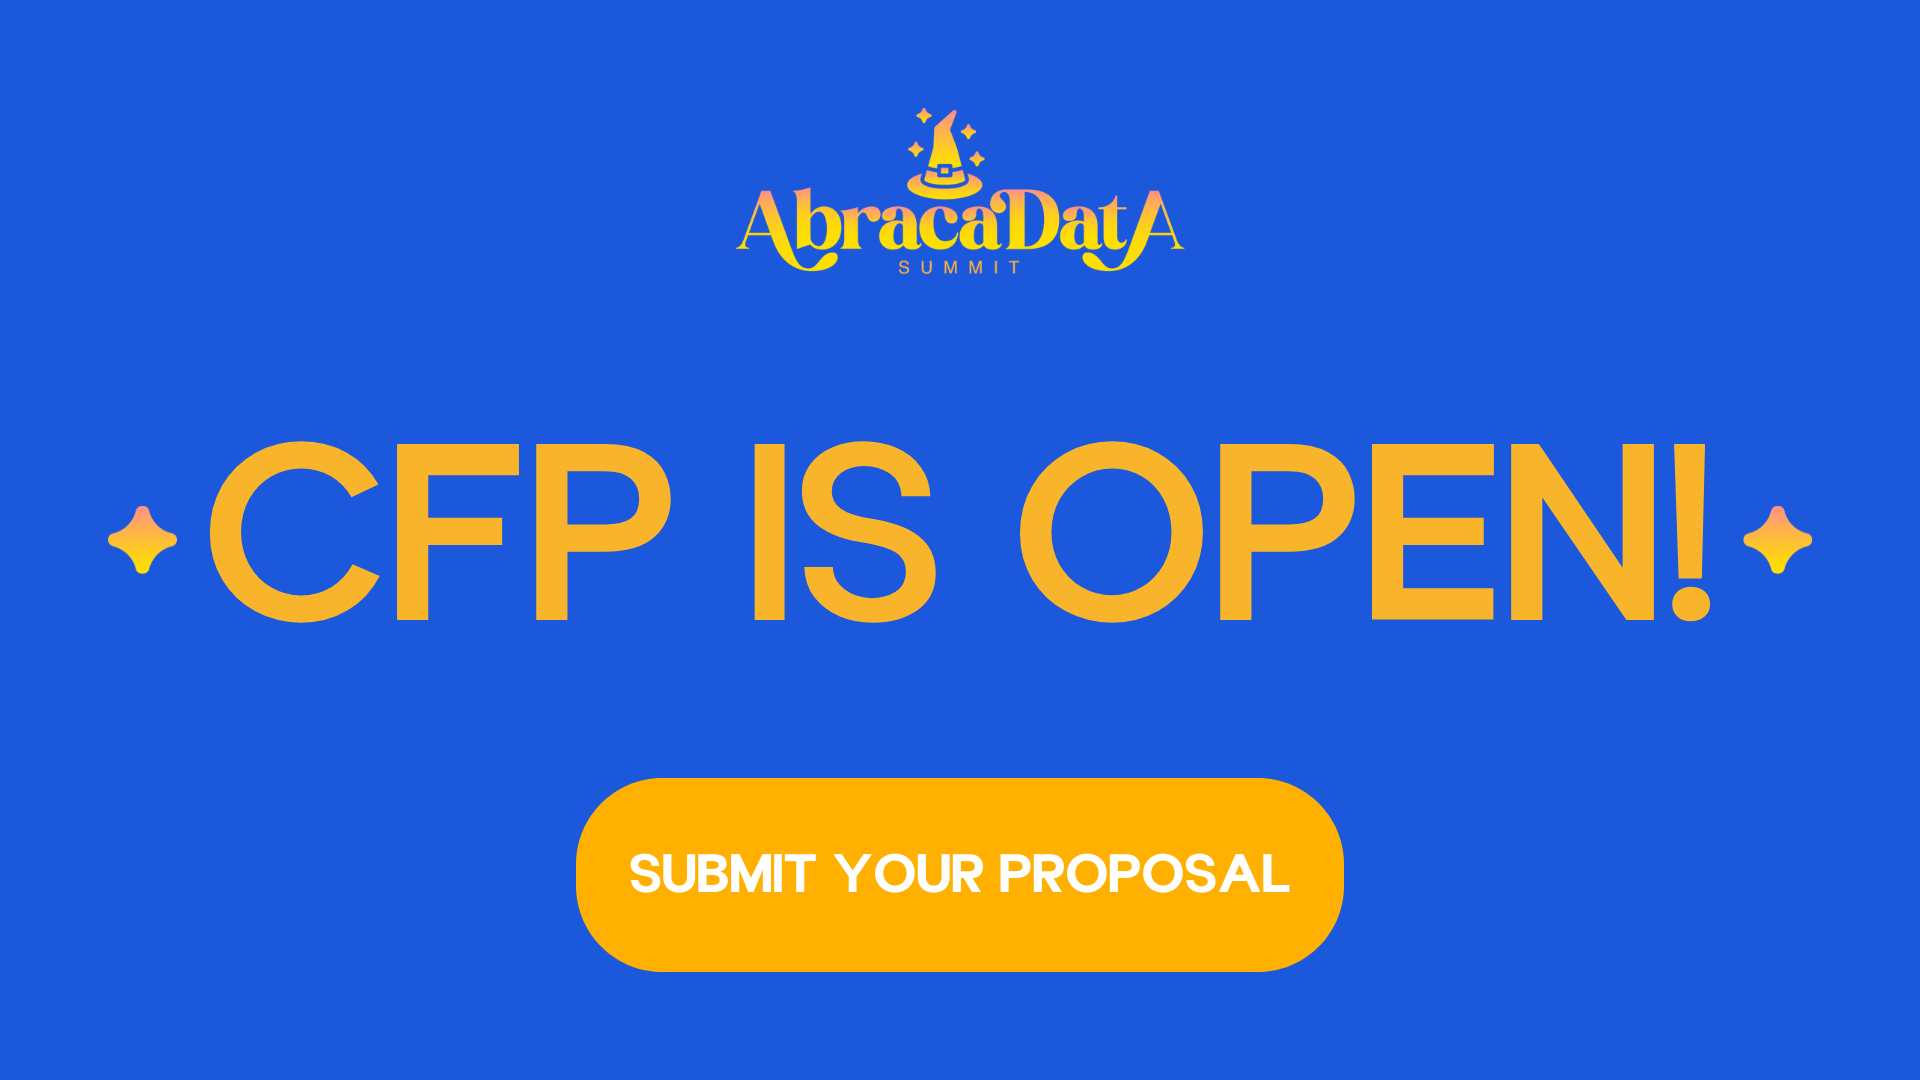
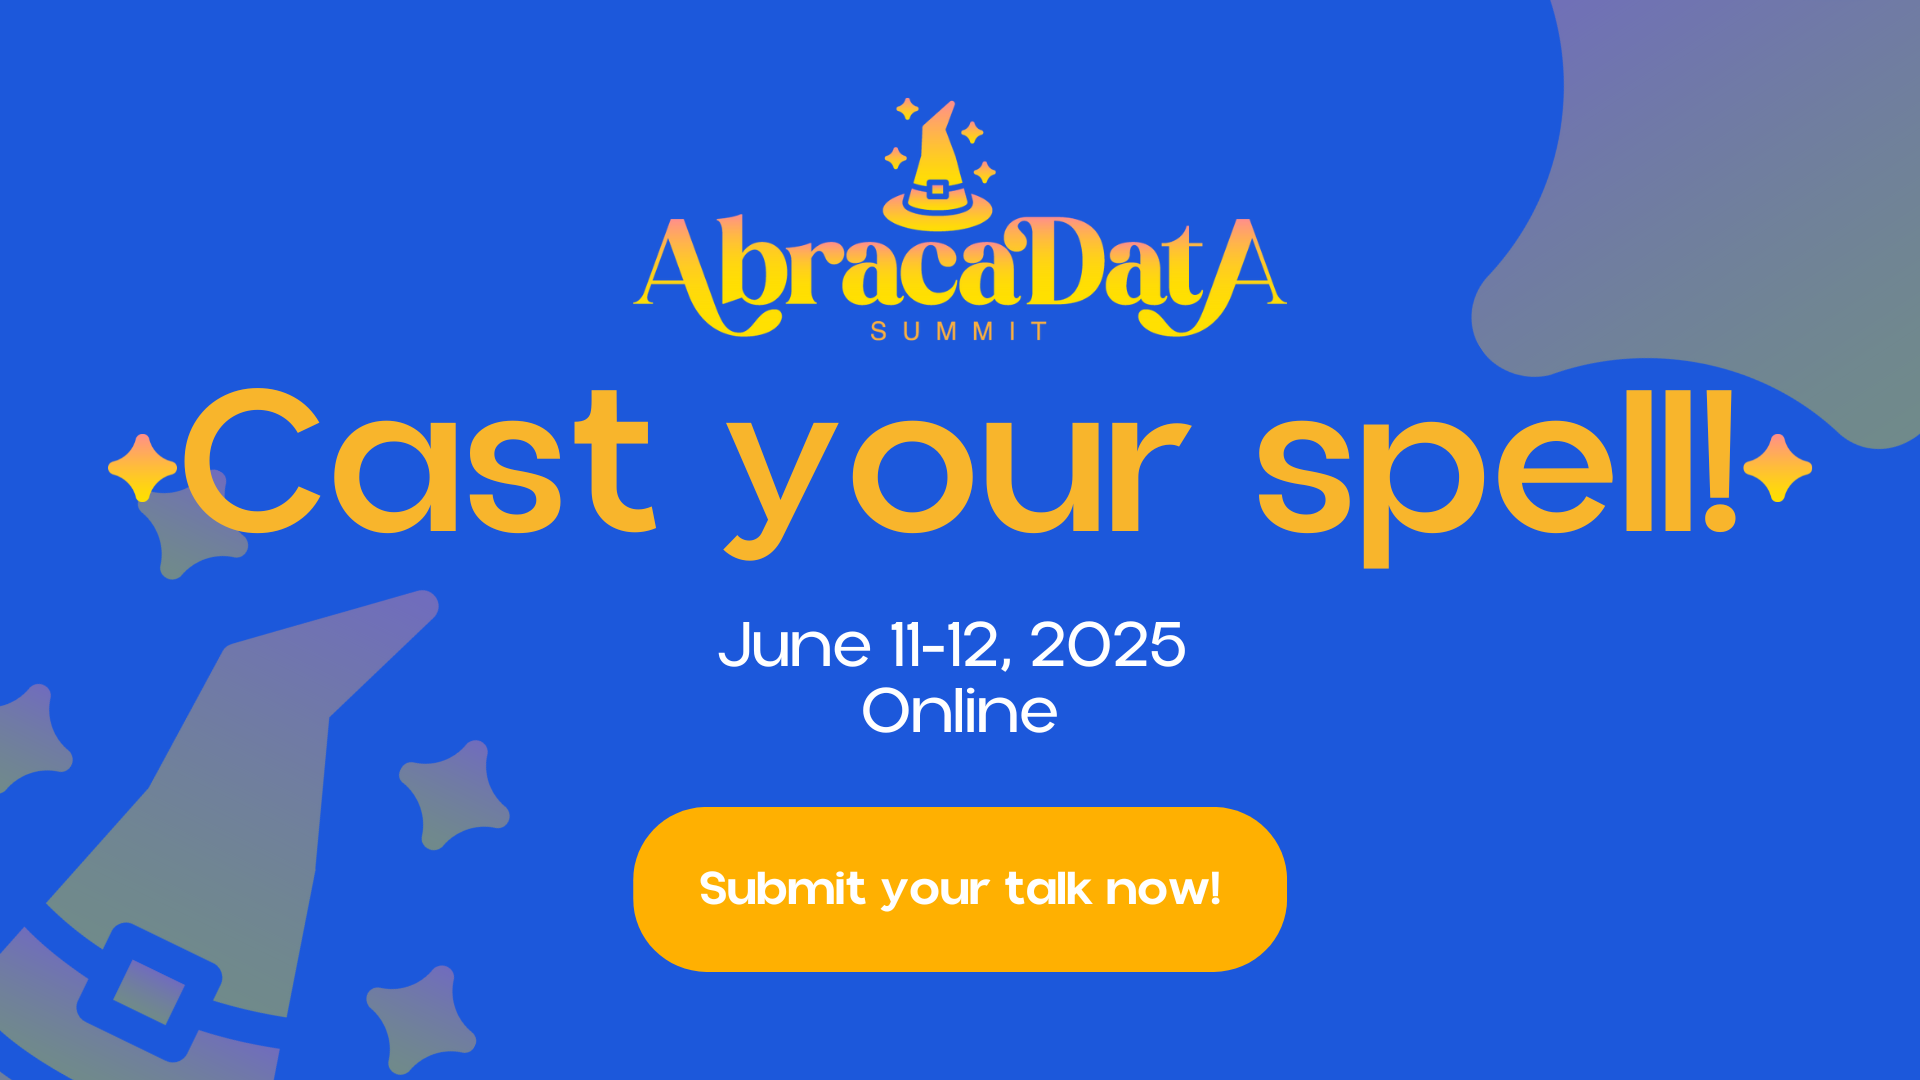
updated general pages

diff --git a/themes/abracadata/layouts/partials/blog.html b/themes/abracadata/layouts/partials/blog.html
@@ -1,51 +1,57 @@
 <section class="blog-news-section">
 
-    <swiper-container class="mySwiper" pagination="true" pagination-clickable="true" navigation="true" space-between="30"
-      centered-slides="true" autoplay-delay="4500" autoplay-disable-on-interaction="false" loop="true">
-  
-      {{ range first 1 (where .Site.RegularPages "Type" "blog" )}}
-      
-      <swiper-slide>
-        <div class="container">
-          <div class="row">
-            <div class="col-lg-5 col-md-6 mt-4">
-              <p class="news-sub">WHAT'S NEW</p>
-              <p class="latest-news-title">Latest news:</p>
-              <p class="news-title">{{ .Title }}</p>
-              <p class="news-description mt-4 mb-4">{{.Summary}}</p>
-  
-                {{ with .Params.redirection }}
-                <a href="{{ . }}"> 
-                    <button type="button" class="btn button-hero-blue mt-2" target="_blank">READ MORE</button>
-                </a>
-                {{ end }}
-                
-            </div>
-            <div class="col-lg-7 col-md-6">
-              <a href="{{ .Params.redirection }}" target="_blank">
-                <img src="{{ with .Params.images }}{{ index . 0 | relURL }}{{ end }}" alt="{{ .Title }}" class="img-fluid venue-img">
-              </a>
-            </div>
+  <swiper-container class="mySwiper" pagination="true" pagination-clickable="true" navigation="true" space-between="30"
+    centered-slides="true" autoplay-delay="8500" autoplay-disable-on-interaction="false" loop="true">
+
+    {{ range (where .Site.RegularPages "Type" "blog" )}}
+
+    <swiper-slide>
+      <div class="container">
+        <div class="row">
+          <div class="col-lg-5 col-md-6 mt-4">
+            <p class="news-sub">WHAT'S NEW</p>
+            <p class="latest-news-title">Latest news:</p>
+            <p class="news-title">{{ .Title }}</p>
+            <p class="news-description mt-4 mb-4">{{.Summary}}</p>
+
+
+            {{ if .Params.redirection }}
+            <a href="{{ .Params.redirection }}">
+              <button type="button" class="btn button-hero-blue mt-2" target="_blank">{{ .Params.Buttoname }}</button>
+            </a>
+            {{ else }}
+            <a href="{{ .Permalink }}">
+              <button type="button" class="btn button-hero-blue mt-2" target="_blank">{{ .Params.Buttoname }}</button>
+            </a>
+            {{ end}}
+
+          </div>
+          <div class="col-lg-7 col-md-6">
+            <a href="{{ .Params.redirection }}" target="_blank">
+              <img src="{{ with .Params.images }}{{ index . 0 | relURL }}{{ end }}" alt="{{ .Title }}"
+                class="img-fluid venue-img">
+            </a>
           </div>
         </div>
-      </swiper-slide>
-      {{ end }}
-      
-    </swiper-container>
-  
-    <script src="https://cdn.jsdelivr.net/npm/swiper@11/swiper-element-bundle.min.js"></script>
-  
-  </section>
-  
-    <!-- Initialize Swiper -->
-    <script>
-      const progressCircle = document.querySelector(".autoplay-progress svg");
-      const progressContent = document.querySelector(".autoplay-progress span");
-  
-      const swiperEl = document.querySelector("swiper-container");
-      swiperEl.addEventListener("autoplaytimeleft", (e) => {
-        const [swiper, time, progress] = e.detail;
-        progressCircle.style.setProperty("--progress", 1 - progress);
-        progressContent.textContent = `${Math.ceil(time / 1000)}s`;
-      });
-    </script>
+      </div>
+    </swiper-slide>
+    {{ end }}
+
+  </swiper-container>
+
+  <script src="https://cdn.jsdelivr.net/npm/swiper@11/swiper-element-bundle.min.js"></script>
+
+</section>
+
+<!-- Initialize Swiper -->
+<script>
+  const progressCircle = document.querySelector(".autoplay-progress svg");
+  const progressContent = document.querySelector(".autoplay-progress span");
+
+  const swiperEl = document.querySelector("swiper-container");
+  swiperEl.addEventListener("autoplaytimeleft", (e) => {
+    const [swiper, time, progress] = e.detail;
+    progressCircle.style.setProperty("--progress", 1 - progress);
+    progressContent.textContent = `${Math.ceil(time / 1000)}s`;
+  });
+</script>

diff --git a/themes/abracadata/layouts/partials/footer.html b/themes/abracadata/layouts/partials/footer.html
@@ -20,7 +20,16 @@
 				<h4>Event resources</h4>
 				<ul class="footer_links">
 					{{ range .Site.Params.links.footer_resources }}
-					<li><a href="{{ .url | safeURL }}" target="_blank">{{ .name }}</a></li>
+					<li><a href="{{ .url | safeURL }}">{{ .name }}</a></li>
+					{{ end }}
+				</ul>
+			</div>
+
+			<div>
+				<h4>Contact</h4>
+				<ul class="footer_links">
+					{{ range .Site.Params.links.footer_contact }}
+					<li><a href="{{ .url | safeURL }}">{{ .name }}</a></li>
 					{{ end }}
 				</ul>
 			</div>

diff --git a/themes/abracadata/layouts/partials/hero.html b/themes/abracadata/layouts/partials/hero.html
@@ -4,10 +4,10 @@
     <img src="/images/abracadata-logo.png" class="img-fluid mx-auto d-block abracadata-logo">
   </div>
   <div class="hero-info text-center">
-    <p>11-12 June, 2025.</p>
+    <p>11-12 June, 2025</p>
     <p>Online | Free access</p>
     <a href="#">
-      <button type="button" class="btn button-hero mt-2" >CFP IS OPEN!</button>
+      <button type="button" class="btn button-hero mt-2" >Cast your spell. Submit your talk now!</button>
     </a>
 
   </div>

diff --git a/themes/abracadata/layouts/partials/featured-speakers.html b/themes/abracadata/layouts/partials/featured-speakers.html
@@ -1,7 +1,7 @@
 <section class="section featured-speakers">
   <div class="container text-center">
     <div class="heading mb-4">
-      <h2 class="title-featured">JOIN MASTERMINDS BEHIND AI</h2>
+      <h2 class="title-featured"><img src="/images/star.png" width="25"> Join the masterminds weaving AI magic! <img src="/images/star.png" width="25"></h2>
       <!--<h4 class="subtitle-featured"></h4>-->
     </div>
     <div class="speaker-strip">

diff --git a/themes/abracadata/layouts/partials/event_info.html b/themes/abracadata/layouts/partials/event_info.html
@@ -4,7 +4,7 @@
 <section class="section event-info">
   <a id="event-info"></a>
   <div class="container">
-    <h2 class="text-center event-info-title"><img src="/images/star.png" width="25"> {{ .title }}</h2>
+    <h2 class="text-center event-info-title"><img src="/images/star.png" width="25"> {{ .title }} <img src="/images/star.png" width="25"></h2>
     <div class="content info-description">
 
       <div>

diff --git a/themes/abracadata/layouts/partials/partners.html b/themes/abracadata/layouts/partials/partners.html
@@ -1,6 +1,6 @@
 <section id="partners" class="section partners">
   <div class="sponsors-section text-center">
-    <h2>SPONSORS & PARTNERS</h2>
+    <h2>Enchanters & Allies</h2>
   </div>
   <div class="container">
 

diff --git a/content/privacy.md b/content/privacy.md
@@ -2,3 +2,62 @@
 title: "Privacy Policy"
 linkTitle: "Privacy"
 ---
+
+Abracadata collects some personal data from its users. We take great care in collecting only the essential minimum data that we need to provide the service and to manage this data adequately. This document provides more details about the data we gather and how it is used.
+
+Data controller
+Although Abracadata is a community initiative, the legal entity responsible for the event is:
+
+Nearshore Link, Inc.
+2940 Thousand Oaks Dr.
+Austin, TX 78746
+
+Contact: Pedro Galvan <pedro@sg.com.mx>
+
+Types of data collected and purpose
+The types of personal data that we collect, directly or through third parties, consist of:
+
+Email address. You provide this when you purchase your ticket to attend and we use it exclusively to provide you information regarding your participation in the event.
+First and last name. You provide this when you purchase your ticket to attend. We use this information to identify at event check-in.
+Cookies and usage data. We may use cookies in order to obtain analytics of website usage. It is not necessary to accept cookies in order to use the website.
+
+Third party websites and services
+Participants at this event may require to interact with the following third party services:
+
+Airmeet is the virtual event platform where you will be able to watch sessions and interact with other participants. Its privacy policy is available at https://www.airmeet.com/hub/privacy-policy/.
+
+Google Analytics is used to track and examine the use of this website. Google may use the data collected to contextualize and personalize the ads of its own advertising network. Personal Data collected: Cookies; Usage Data. Place of processing: United States. Its privacy policy is available at https://policies.google.com/privacy and you can opt out at https://tools.google.com/dlpage/gaoptout
+
+Mode and place of processing the data
+Methods of processing
+
+The data controller takes appropriate security measures to prevent unauthorized access, disclosure, modification, or unauthorized destruction of the Data.
+
+Your data is used to provide you the service of attending this event and we will request your explicit permission in order to share it with any other third parties or sponsors.
+
+### Place
+
+The Data is processed at the data controller’s operating offices and in any other places where the parties involved in the processing are located. Depending on the User’s location, data transfers may involve transferring the User’s Data to a country other than their own.
+
+### Retention time
+
+Personal Data shall be processed and stored only as long as it is necessary to provide the user with the service of participating at the event. Once the event has ended and all agreed obligations have been provided to the user, personal data will be deleted.
+
+### The rights of users
+
+Users may exercise certain rights regarding their data processed by the controller.
+
+In particular, Users have the right to do the following:
+
+Withdraw their consent at any time. Users have the right to withdraw consent where they have previously given their consent to the processing of their Personal Data.
+Access their data. Users have the right to learn if Data is being processed by the Owner, obtain disclosure regarding certain aspects of the processing and obtain a copy of the data undergoing processing.
+Verify and seek rectification. Users have the right to verify the accuracy of their Data and ask for it to be updated or corrected.
+Restrict the processing of their data. Users have the right, under certain circumstances, to restrict the processing of their data. In this case, the controller will not process their data for any purpose other than storing it.
+Have their personal data deleted or otherwise removed. Users have the right to obtain the erasure of their data from the controller.
+Lodge a complaint. Users have the right to bring a claim before their competent data protection authority.
+Changes to this privacy policy
+The controller reserves the right to make changes to this privacy policy at any time by notifying its users on this page and possibly within the event and/or - as far as technically and legally feasible - sending a notice to users via any contact information available to the controller. It is strongly recommended to check this page often, referring to the date of the last modification listed at the bottom.
+
+Should the changes affect processing activities performed on the basis of the user’s consent, the controller shall collect new consent from the user, where required.
+
+This privacy statement has been prepared based on provisions of multiple legislations, including Art. 13/14 of Regulation (EU) 2016/679 (General Data Protection Regulation).

diff --git a/content/coc.md b/content/coc.md
@@ -1,9 +1,17 @@
 ---
 title: "Code of Conduct"
 linkTitle: "Code of Conduct"
-
-images:
- - images/coc.jpg
+#images:
+# - images/coc.jpg
 
 ---
 
+Abracadata is dedicated to providing a harassment-free experience for everyone. We do not tolerate harassment of participants in any form. Participants violating these rules may be sanctioned or expelled, at the discretion of the event organizers.
+
+Harassment includes offensive verbal comments, deliberate intimidation, stalking, following, unwanted photography or recording, sustained disruption of talks or other events, inappropriate physical contact, and unwelcome sexual attention. Participants asked to stop any harassing behavior are expected to comply immediately.
+
+Sexual language and imagery will not be tolerated in any talk or activity related to the event. Exhibitors should also refrain from using sexualized images, activities, or other material.
+
+If a participant engages in harassing behavior, the organizers may take any action they deem appropriate, including warning the offender or expulsion from the event.
+
+If you are being harassed, notice that someone else is being harassed, or have any other concerns, please contact us at info@abracadata.space

diff --git a/content/sg-events.md b/content/sg-events.md
@@ -1,0 +1,9 @@
+---
+title: "Other events by SG"
+---
+
+<a href="https://airflowsummit.org/" target="_blank">Airflow Summit:</a> The annual conference for the worldwide community of Apache Airflow users and contributors. This conference is a celebration of the people who make Airflow what it is.
+
+<a href="https://beamsummit.org/" target="_blank">Beam Summit:</a> The annual conference to connect a community of professionals around the world who use, contribute, and are learning Apache Beam, its use cases, performance, and resource optimizations. 
+
+<a href="https://osacon.io/" target="_blank">OSA CON:</a> The go-to conference for all things open-source analytics to learn, share, connect, and explore the latest in data ingestion, orchestration, databases, infrastructure, governance, visualization, and AI.

diff --git a/content/faq/_index.md b/content/faq/_index.md
@@ -10,7 +10,7 @@ Anybody involved in data analytics: data scientists, data engineers, analysts, i
 
 ### Will the event be in-person or online?
 
-Abracadata 2024 is an online event on 11-12 June, 2025.
+Abracadata 2025 is an online event on 11-12 June, 2025.
 
 ### Is the event free?
 
@@ -18,7 +18,7 @@ Yes, participation in Abracadata 2025 is free.
 
 ### How can I register for the event?
 
-Registration is now open. Sign up for the event [here](/register).
+Registration is open now. Sign up for the event [here](/register).
 
 ### How can I be a speaker?
 

diff --git a/content/blog/cfp-2025.md b/content/blog/cfp-2025.md
@@ -4,7 +4,8 @@ date: 2025-02-12T10:00:00
 # post thumb
 images: ["images/blog/AD25-cfp.png"]
 # author
-redirection: /register
+redirection: /cfp
+Buttoname: Cast yout spell
 ---
 
 This is the 2025 edition of Airflow Summit, and we are looking for great speakers who will provide engaging and exciting content for the event.

diff --git a/content/blog/registration-2025.md b/content/blog/registration-2025.md
@@ -1,0 +1,12 @@
+---
+title: "Registrarion is open!"
+date: 2025-02-12T10:00:00
+# post thumb
+images: ["images/blog/registration-2025.png"]
+# author
+redirection: /register
+buttoname: Conjure your access
+---
+
+
+Join the masterminds behind AI for an enchanting experience where innovation meets magic. Register now!
